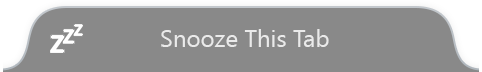
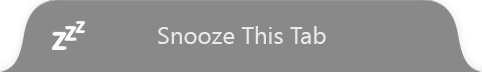
More header images and css updates

diff --git a/data/snoozePanel.css b/data/snoozePanel.css
@@ -46,7 +46,7 @@ body {
 
 #top {
   /* Parent flex sizing */
-  min-height: 40px;
+  min-height: 45px;
   flex: none;
 
   /* Child flex sizing */
